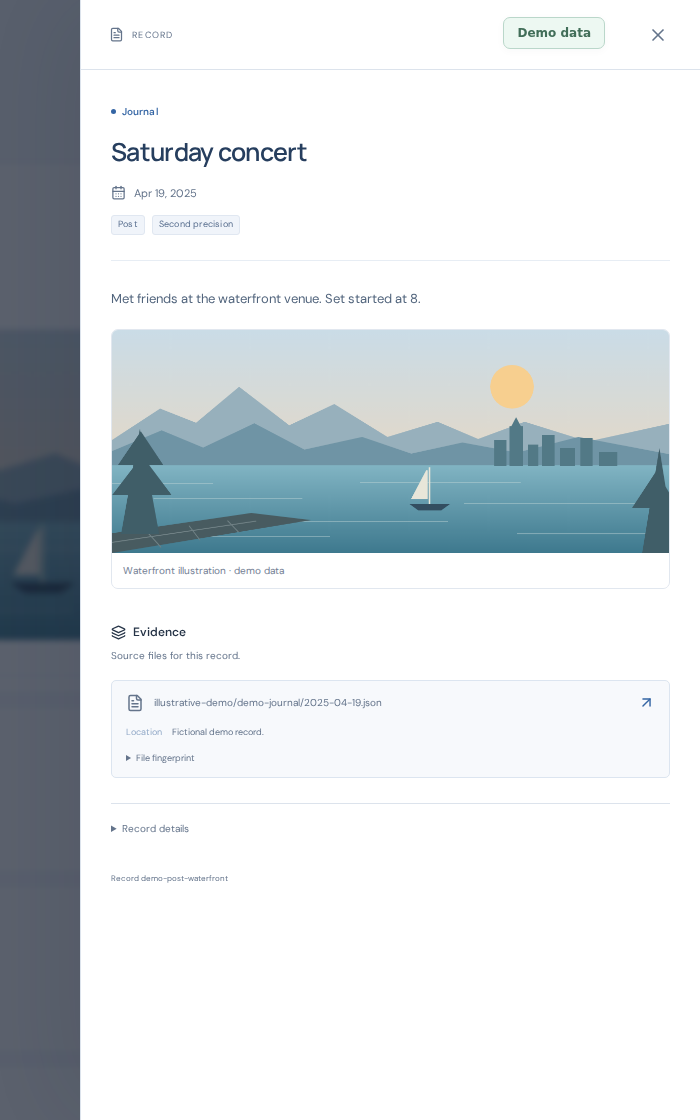
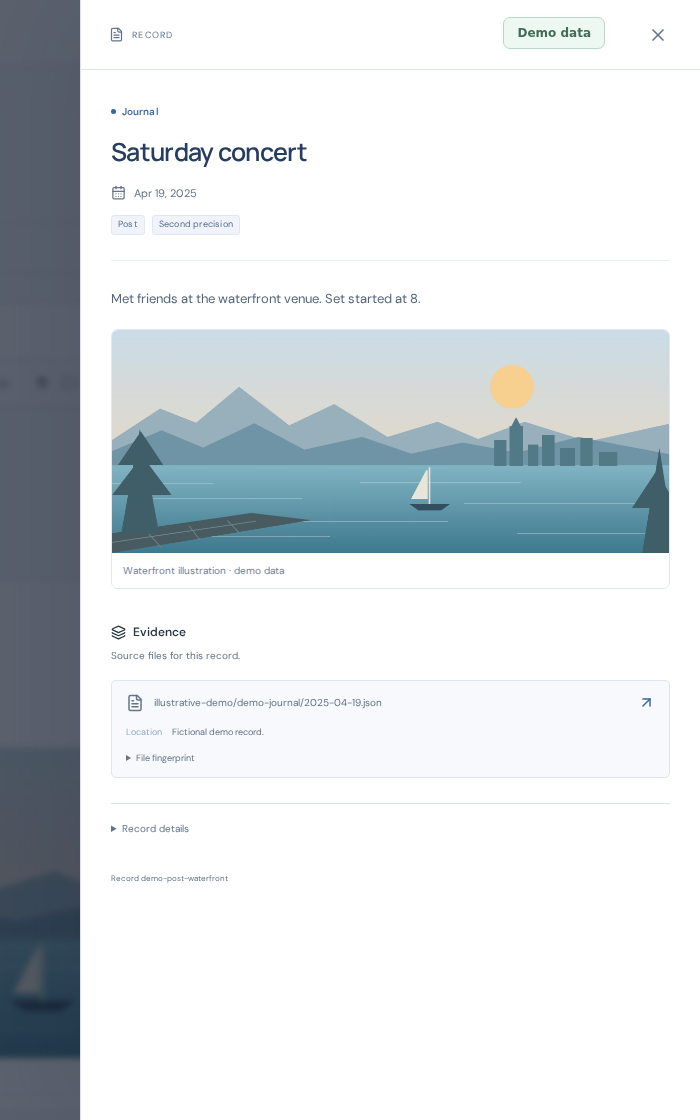
Finalize concise documentation and dashboard acceptance

Changed region(s): [[0.0, 0.7812, 0.12, 0.9688], [0.0, 0.4062, 0.12, 0.5938]]

diff --git a/scripts/check_dashboard.py b/scripts/check_dashboard.py
@@ -53,7 +53,7 @@ def fixture_coverage(sources: list[dict]) -> dict:
     rows = []
     for source in sources:
         rows.append({**source, "queue_order": 1, "notes": ["Synthetic acceptance source."],
-            "files": dict(total=4, bytes=1024, by_parse_status={"parsed": 1, "metadata_only": 1, "retained_only": 1, "partial": 1},
+            "files": dict(total=4, bytes=1024, by_parse_status={"parsed": 1, "metadata_only": 1, "retained": 1, "partial": 1},
                           parsed=1, partial=1, metadata_only=1, retained_only=1, empty=0, excluded=0, pending=0, needs_review=1),
             "records": dict(status="current", total=source["event_count"], dated=source["event_count"], undated=0,
                             first_observed=source["first_event"], last_observed=source["last_event"], measured_at=measured_at),

diff --git a/biography/cli.py b/biography/cli.py
@@ -35,7 +35,8 @@ def main():
     full_restore.add_argument('backup',type=Path)
     full_restore.add_argument('destination',type=Path)
     args=parser.parse_args()
-    init_db()
+    if args.command not in {'backup','backup-verify','backup-restore','daily-build','daily-status','restore'}:
+        init_db()
     if args.command=='init':print(json.dumps({'database':str(settings.database)}))
     elif args.command in ('plan','import'):
         from .pipeline import dataset_inventory,register_queue,run_dataset,worker_lock

diff --git a/README.md b/README.md
@@ -53,7 +53,7 @@ AI features use the Codex CLI's existing ChatGPT sign-in. Selected source excerp
 
 ## Storage and backups
 
-Keep the profile, database, source vault, credentials and personal screenshots outside this repository. Use a private repository for configuration and reviewed metadata. A metadata snapshot does not include original media. See [backup and restore](docs/backups.md).
+Keep personal data and configuration outside this repository. Metadata snapshots exclude original media. See [backup and restore](docs/backups.md) and [private Git LFS packages](docs/lfs-backups.md).
 
 ## Screenshots
 
